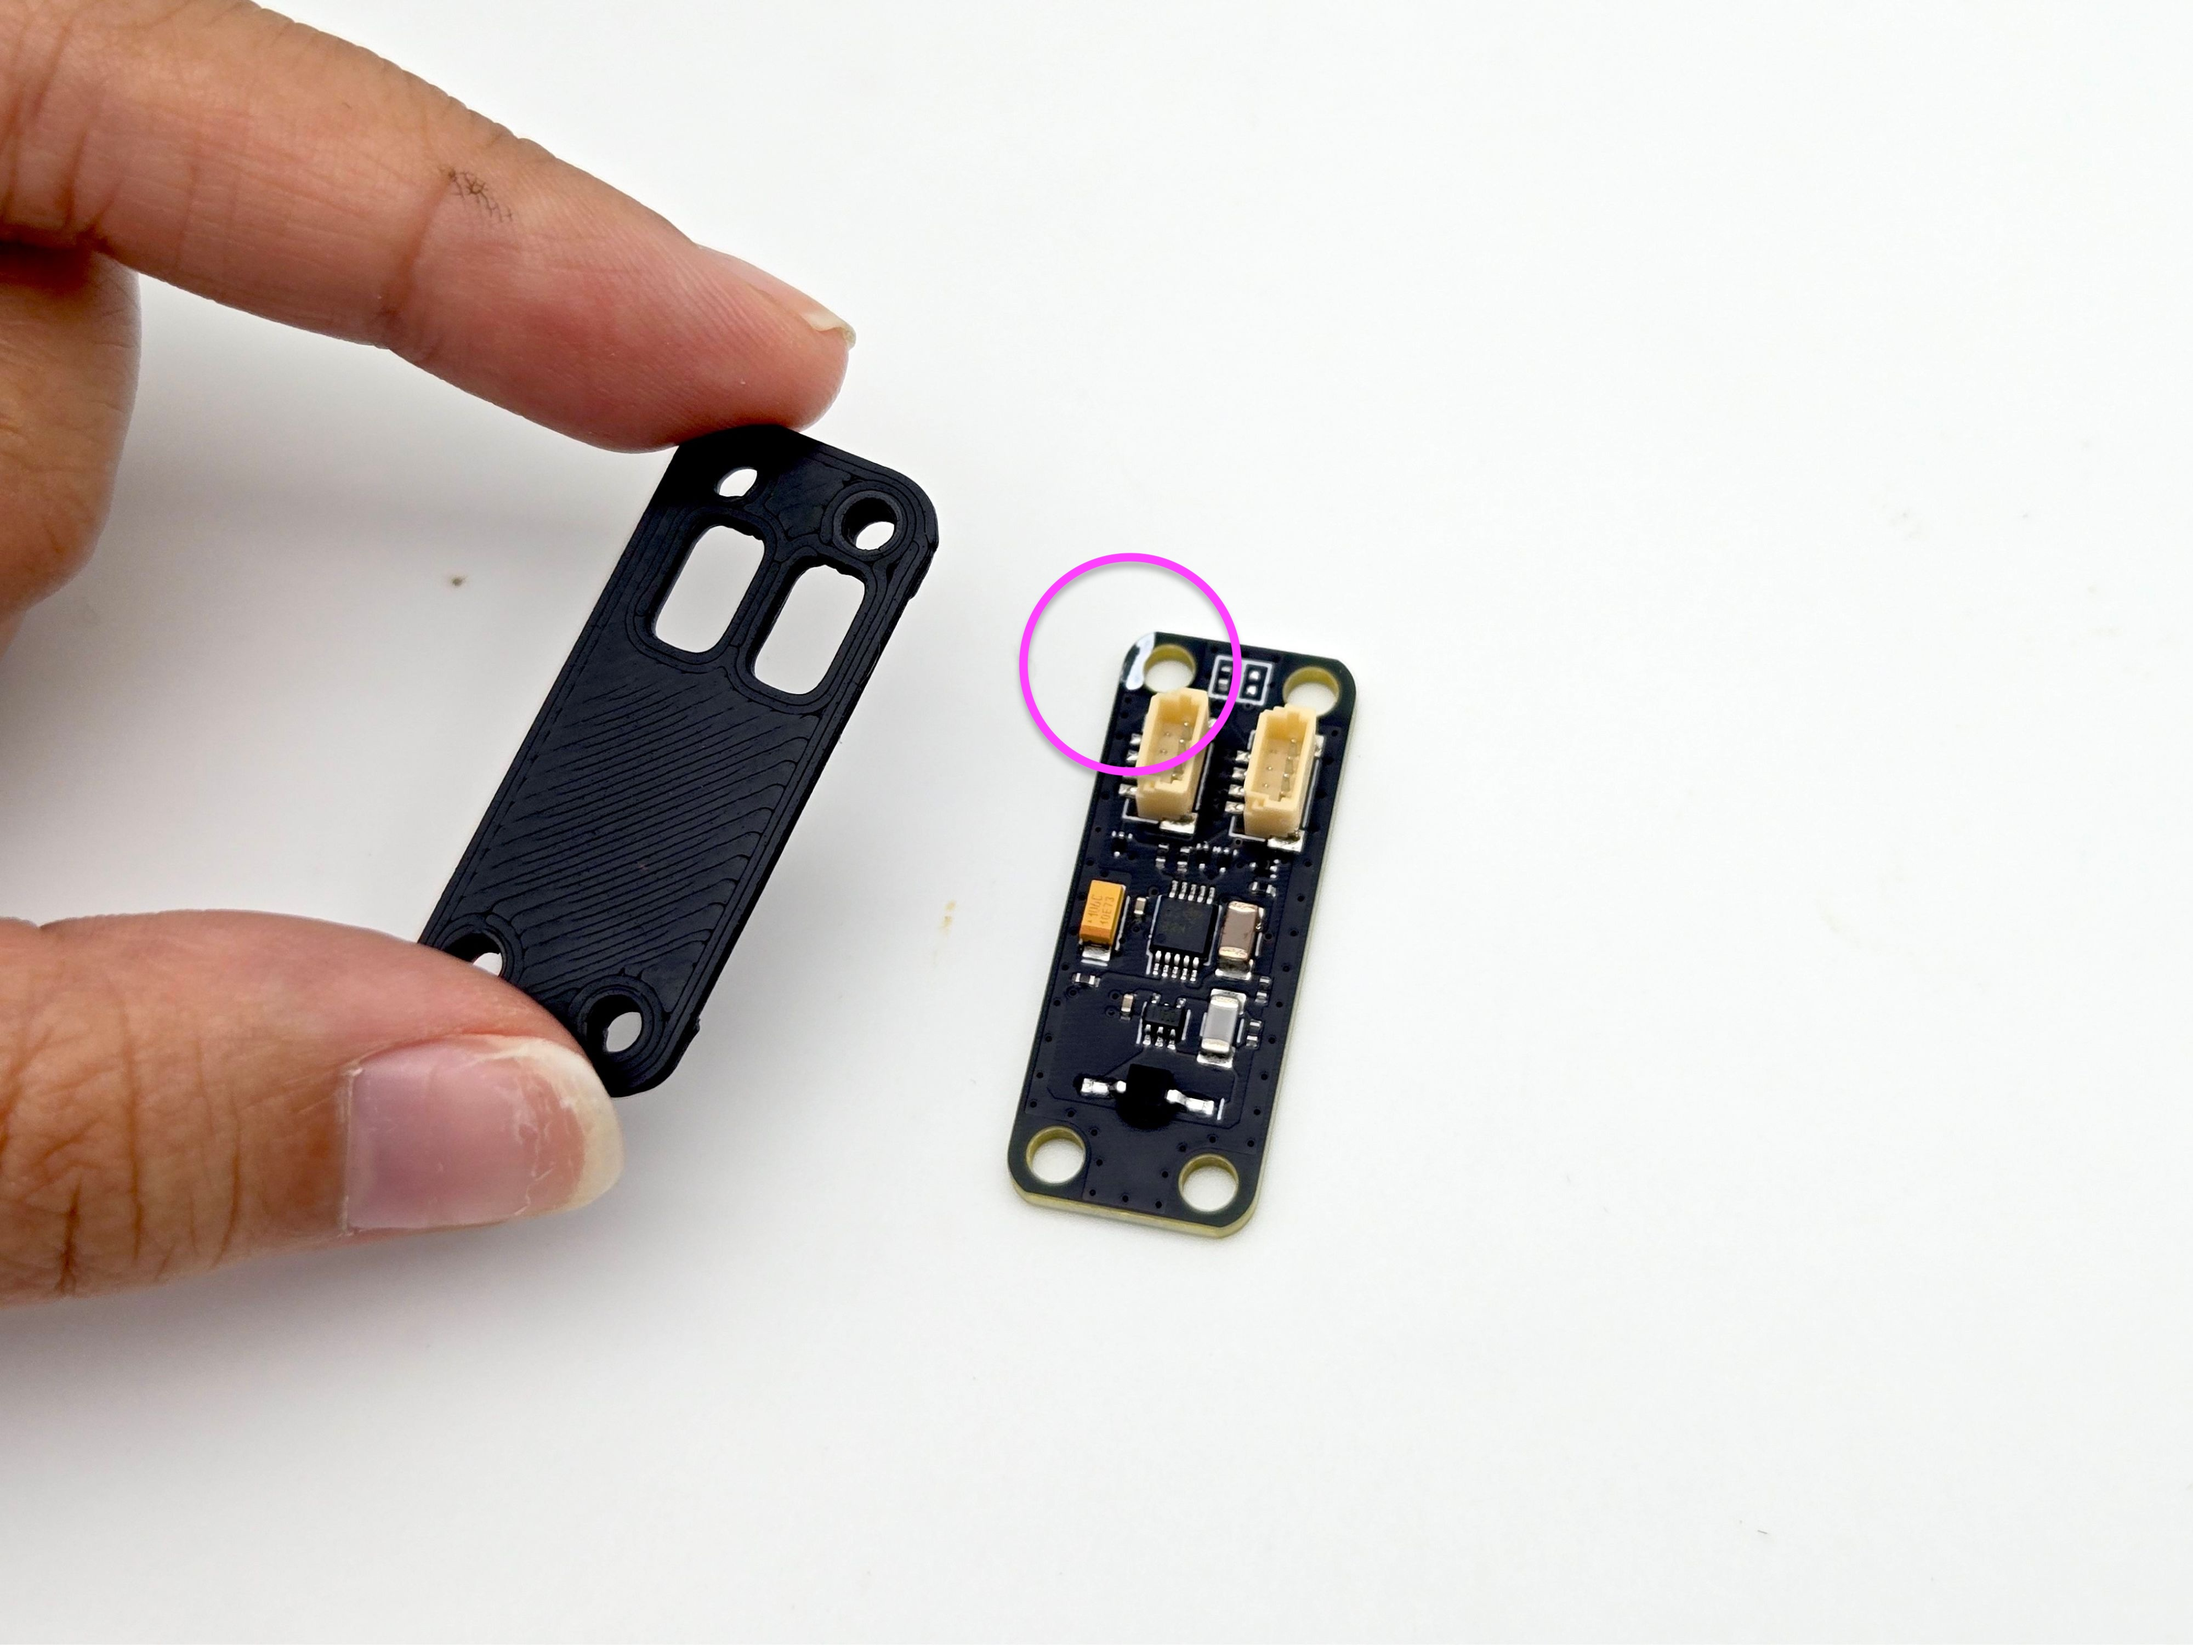
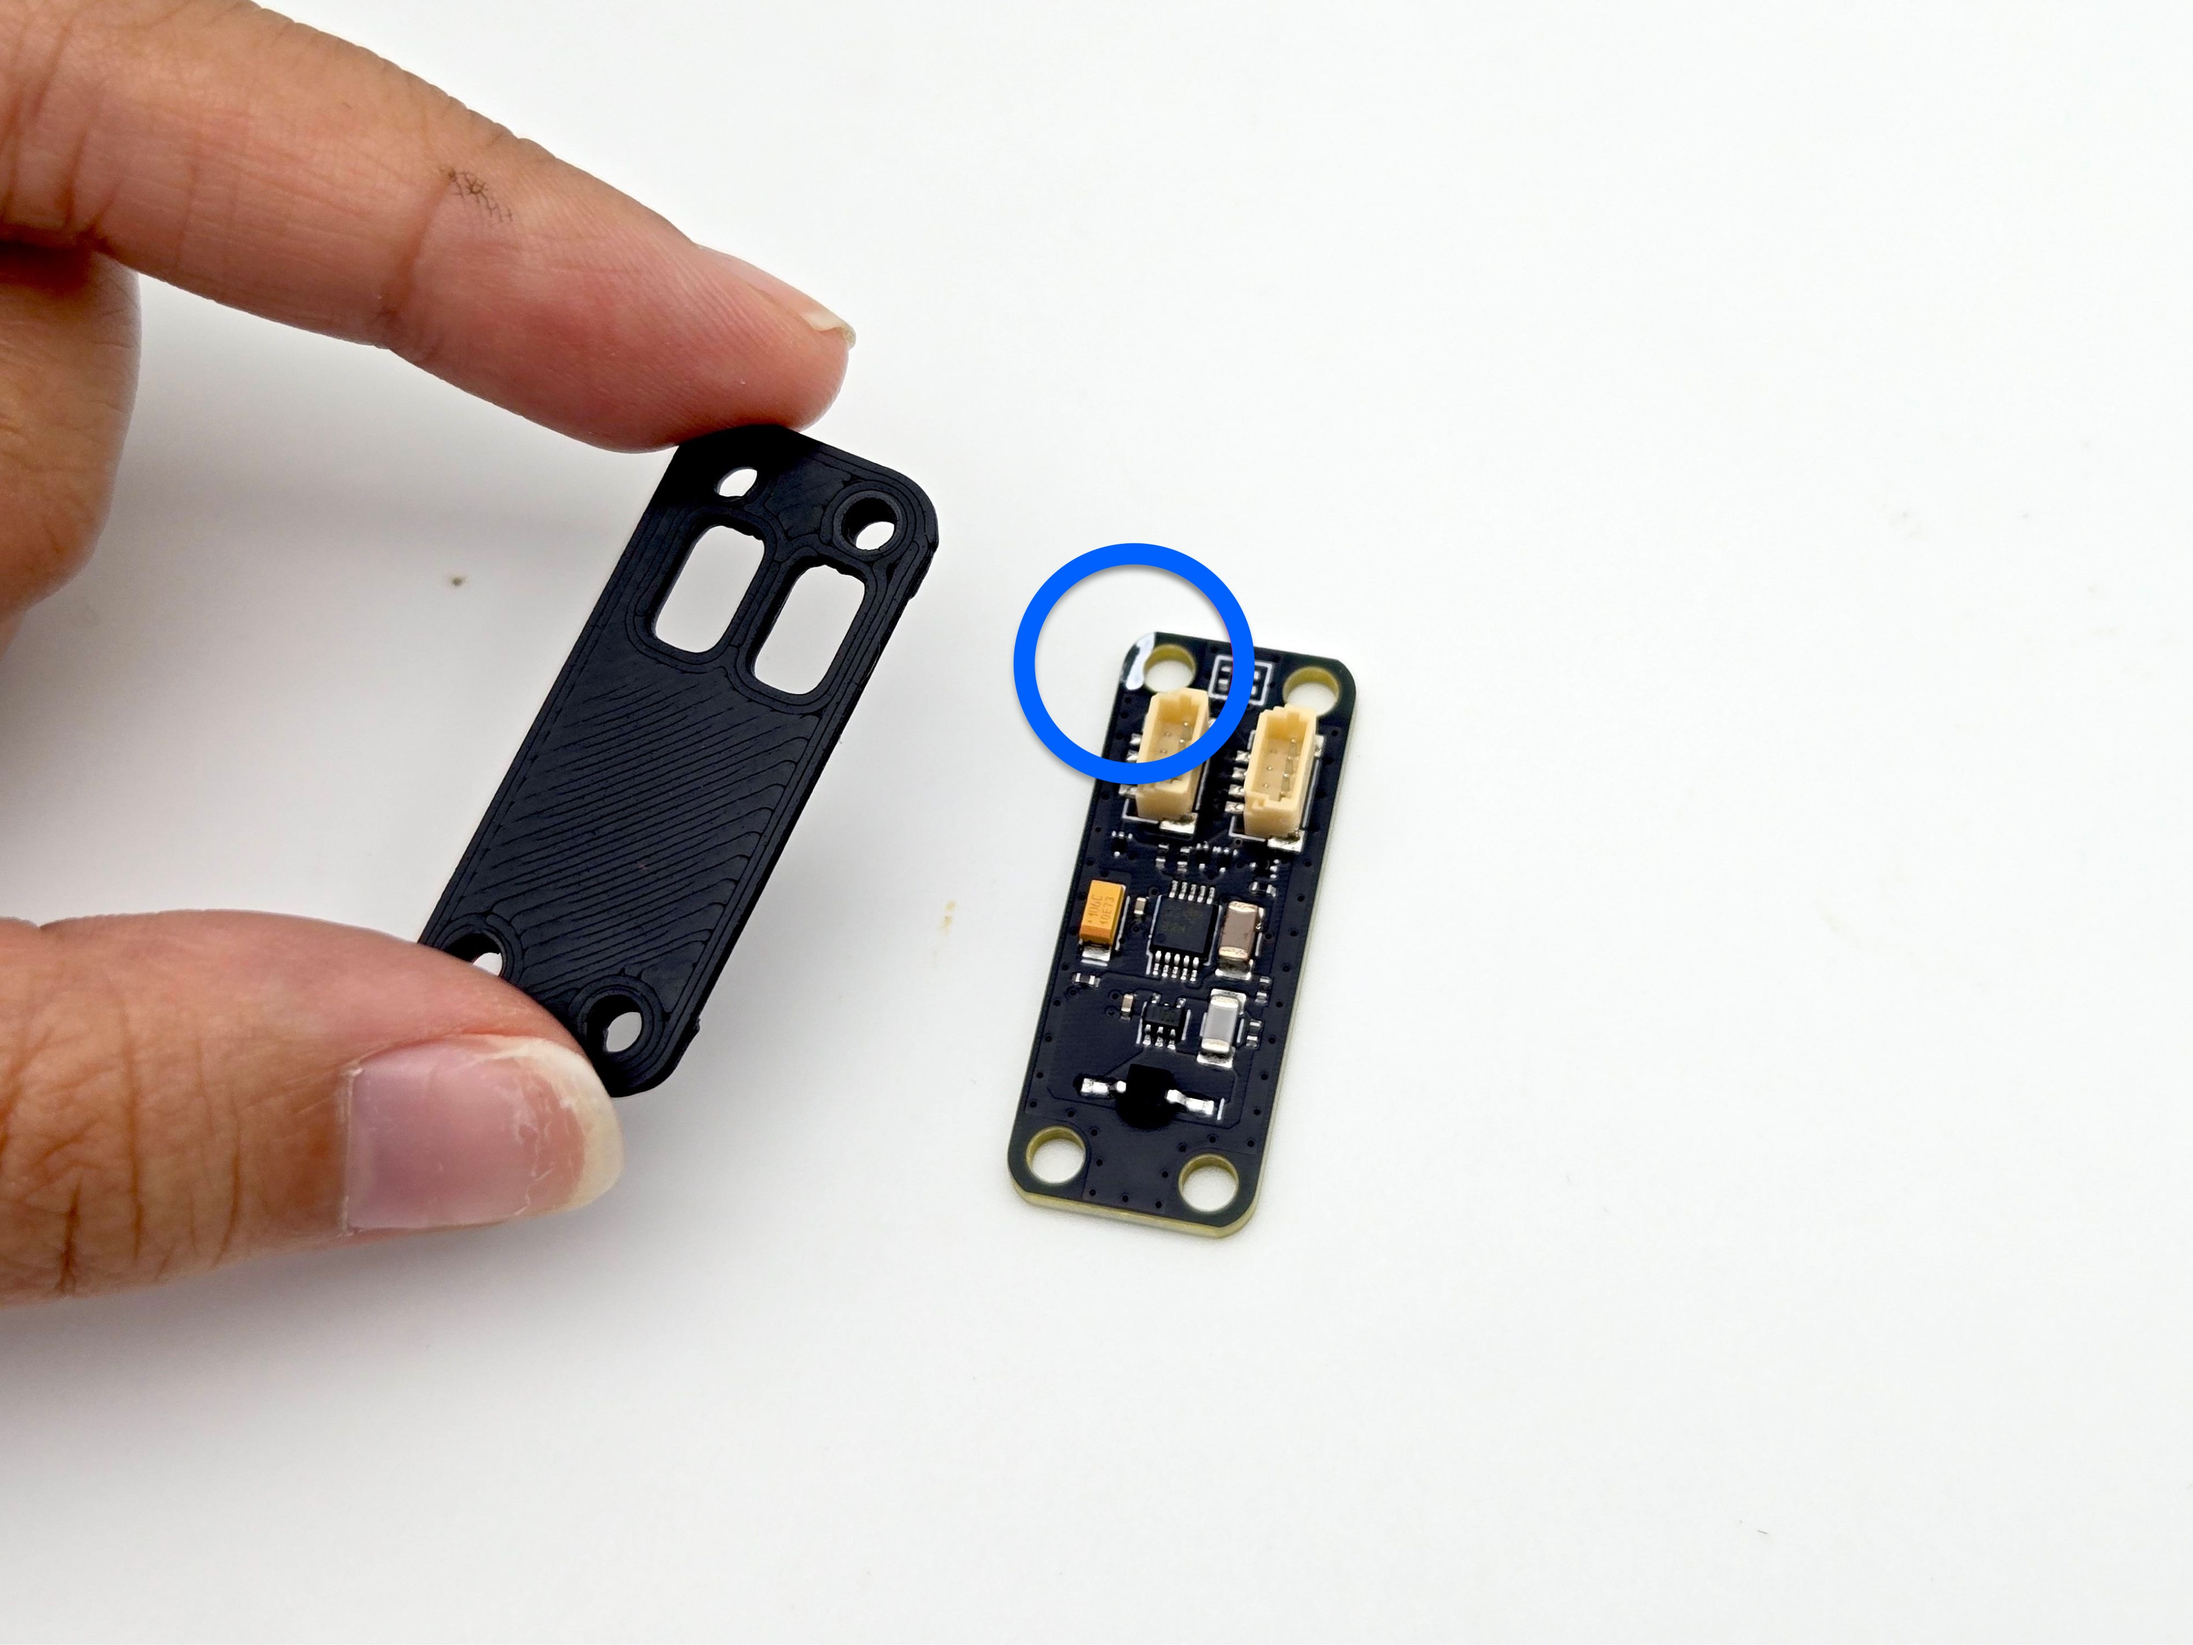
more

Changed region(s): [[0.4375, 0.31, 0.5938, 0.496]]

diff --git a/user-guide/03-Extending your Pioreactor/30-Upgrade kits/13-precision-temperature-upgrade-kit.md b/user-guide/03-Extending your Pioreactor/30-Upgrade kits/13-precision-temperature-upgrade-kit.md
@@ -1,0 +1,29 @@
+---
+title: Adding the Precision Temperature Upgrade Kit
+sidebar_label: Precision Temperature Upgrade Kit
+description: Install and configure the Precision Temperature Upgrade Kit on a Pioreactor 40ml.
+slug: /precision-temperature-upgrade-kit
+hide_table_of_contents: true
+---
+
+import AssemblyInstructionBlock from '@site/src/components/AssemblyInstructionBlock';
+import Highlight from '@site/src/components/Highlight';
+import * as colors from '@site/src/components/constants';
+
+The [Precision Temperature Upgrade Kit](https://pioreactor.com/collections/accessories-and-parts/products/precision-temperature-upgrade-kit) adds a faster, more accurate external temperature sensor to a Pioreactor 20ml and 40ml.
+
+
+<AssemblyInstructionBlock title="Step 1: Install the FIR temperature sensor" images={["user-guide/03-extending-your-pioreactor/13-precision-temperature-upgrade-kit/installed-pioreactor.jpg", "user-guide/03-extending-your-pioreactor/13-precision-temperature-upgrade-kit/sensor-orientation.jpg"]}>
+
+1. Use a flat-head screwdriver or thin shim to gently lift and remove the plastic cover from the SPEC position.
+2. Connect one end of the provided STEMMA QT cable to the FIR temperature sensor PCB.
+3. Connect the other end of the cable to the nearest Eye-spy PCB.
+4. Place the sensor PCB into the open position. Match the orientation shown in the photos: <Highlight color={colors.blue}>the LED "pad" faces the right-hand side</Highlight>, and the 6 holes face the left-hand side.
+5. Optionally, secure the PCB with the provided 8mm M2.5 screws.
+
+</AssemblyInstructionBlock>
+
+## Step 2: Install the plugin
+
+Power on the Pioreactor, open **Plugins** in the Pioreactor UI, and install `pioreactor-precision-temperature-plugin` on the Pioreactor with the new sensor.
+

diff --git a/user-guide/01-getting-started/01-assembly_guides/00-kit-assembly/00_pioreactor_40ml_v1.5/05-40ml-v15-optics-assembly.md b/user-guide/01-getting-started/01-assembly_guides/00-kit-assembly/00_pioreactor_40ml_v1.5/05-40ml-v15-optics-assembly.md
@@ -37,7 +37,7 @@ STEMMA-QT wires may have white or black connectors.
 
 1. Place an eye-spy cover over the REF eye-spy. 
 :::tip
-Each eye-spy is unique. The one used for REF has a <Highlight color={colors.pink}>white mark</Highlight> in the upper-left corner.
+Each eye-spy is unique. The one used for REF has a <Highlight color={colors.blue}>white mark</Highlight> in the upper-left corner.
 :::
 2. With the tan connectors towards the top, place the eye-spy into the REF socket on the vial holder. Secure it with <Highlight color={colors.red}>4x 8mm screws</Highlight>.
 3. Place an eye-spy cover over the other eye-spy. 

diff --git a/user-guide/01-getting-started/01-assembly_guides/00-kit-assembly/01_pioreactor_20ml_v1.5/05-20ml-v15-optics-assembly.md b/user-guide/01-getting-started/01-assembly_guides/00-kit-assembly/01_pioreactor_20ml_v1.5/05-20ml-v15-optics-assembly.md
@@ -36,7 +36,7 @@ STEMMA-QT wires may have white or black connectors.
 
 1. Place an eye-spy cover over the REF eye-spy. 
 :::tip
-Each eye-spy is unique. The one used for REF has a <Highlight color={colors.pink}>white mark</Highlight> in the upper-left corner.
+Each eye-spy is unique. The one used for REF has a <Highlight color={colors.blue}>white mark</Highlight> in the upper-left corner.
 :::
 2. With the tan connectors towards the top, place the eye-spy into the REF socket on the vial holder. Secure it with <Highlight color={colors.red}>4x 8mm screws</Highlight>.
 3. Place an eye-spy cover over the other eye-spy. 

diff --git a/user-guide/01-getting-started/01-assembly_guides/01-upgrade-assembly/06_pioreactor_20ml_v1.1_to_v1.5/05-20ml-v15-optics-assembly.md b/user-guide/01-getting-started/01-assembly_guides/01-upgrade-assembly/06_pioreactor_20ml_v1.1_to_v1.5/05-20ml-v15-optics-assembly.md
@@ -35,7 +35,7 @@ STEMMA-QT wires may have white or black connectors.
 
 1. Place an eye-spy cover over the REF eye-spy. 
 :::tip
-Each eye-spy is unique. The one used for REF has a <Highlight color={colors.pink}>white mark</Highlight> in the upper-left corner.
+Each eye-spy is unique. The one used for REF has a <Highlight color={colors.blue}>white mark</Highlight> in the upper-left corner.
 :::
 2. With the tan connectors towards the top, place the eye-spy into the REF socket on the vial holder. Secure it with <Highlight color={colors.red}>4x 8mm screws</Highlight>.
 3. Place an eye-spy cover over the other eye-spy. 

diff --git a/user-guide/01-getting-started/01-assembly_guides/01-upgrade-assembly/07_pioreactor_40ml_v1.0_to_v1.5/05-40ml-v15-optics-assembly.md b/user-guide/01-getting-started/01-assembly_guides/01-upgrade-assembly/07_pioreactor_40ml_v1.0_to_v1.5/05-40ml-v15-optics-assembly.md
@@ -36,7 +36,7 @@ STEMMA-QT wires may have white or black connectors.
 
 1. Place an eye-spy cover over the REF eye-spy. 
 :::tip
-Each eye-spy is unique. The one used for REF has a <Highlight color={colors.pink}>white mark</Highlight> in the upper-left corner.
+Each eye-spy is unique. The one used for REF has a <Highlight color={colors.blue}>white mark</Highlight> in the upper-left corner.
 :::
 2. With the tan connectors towards the top, place the eye-spy into the REF socket on the vial holder. Secure it with <Highlight color={colors.red}>4x 8mm screws</Highlight>.
 3. Place an eye-spy cover over the other eye-spy. 
